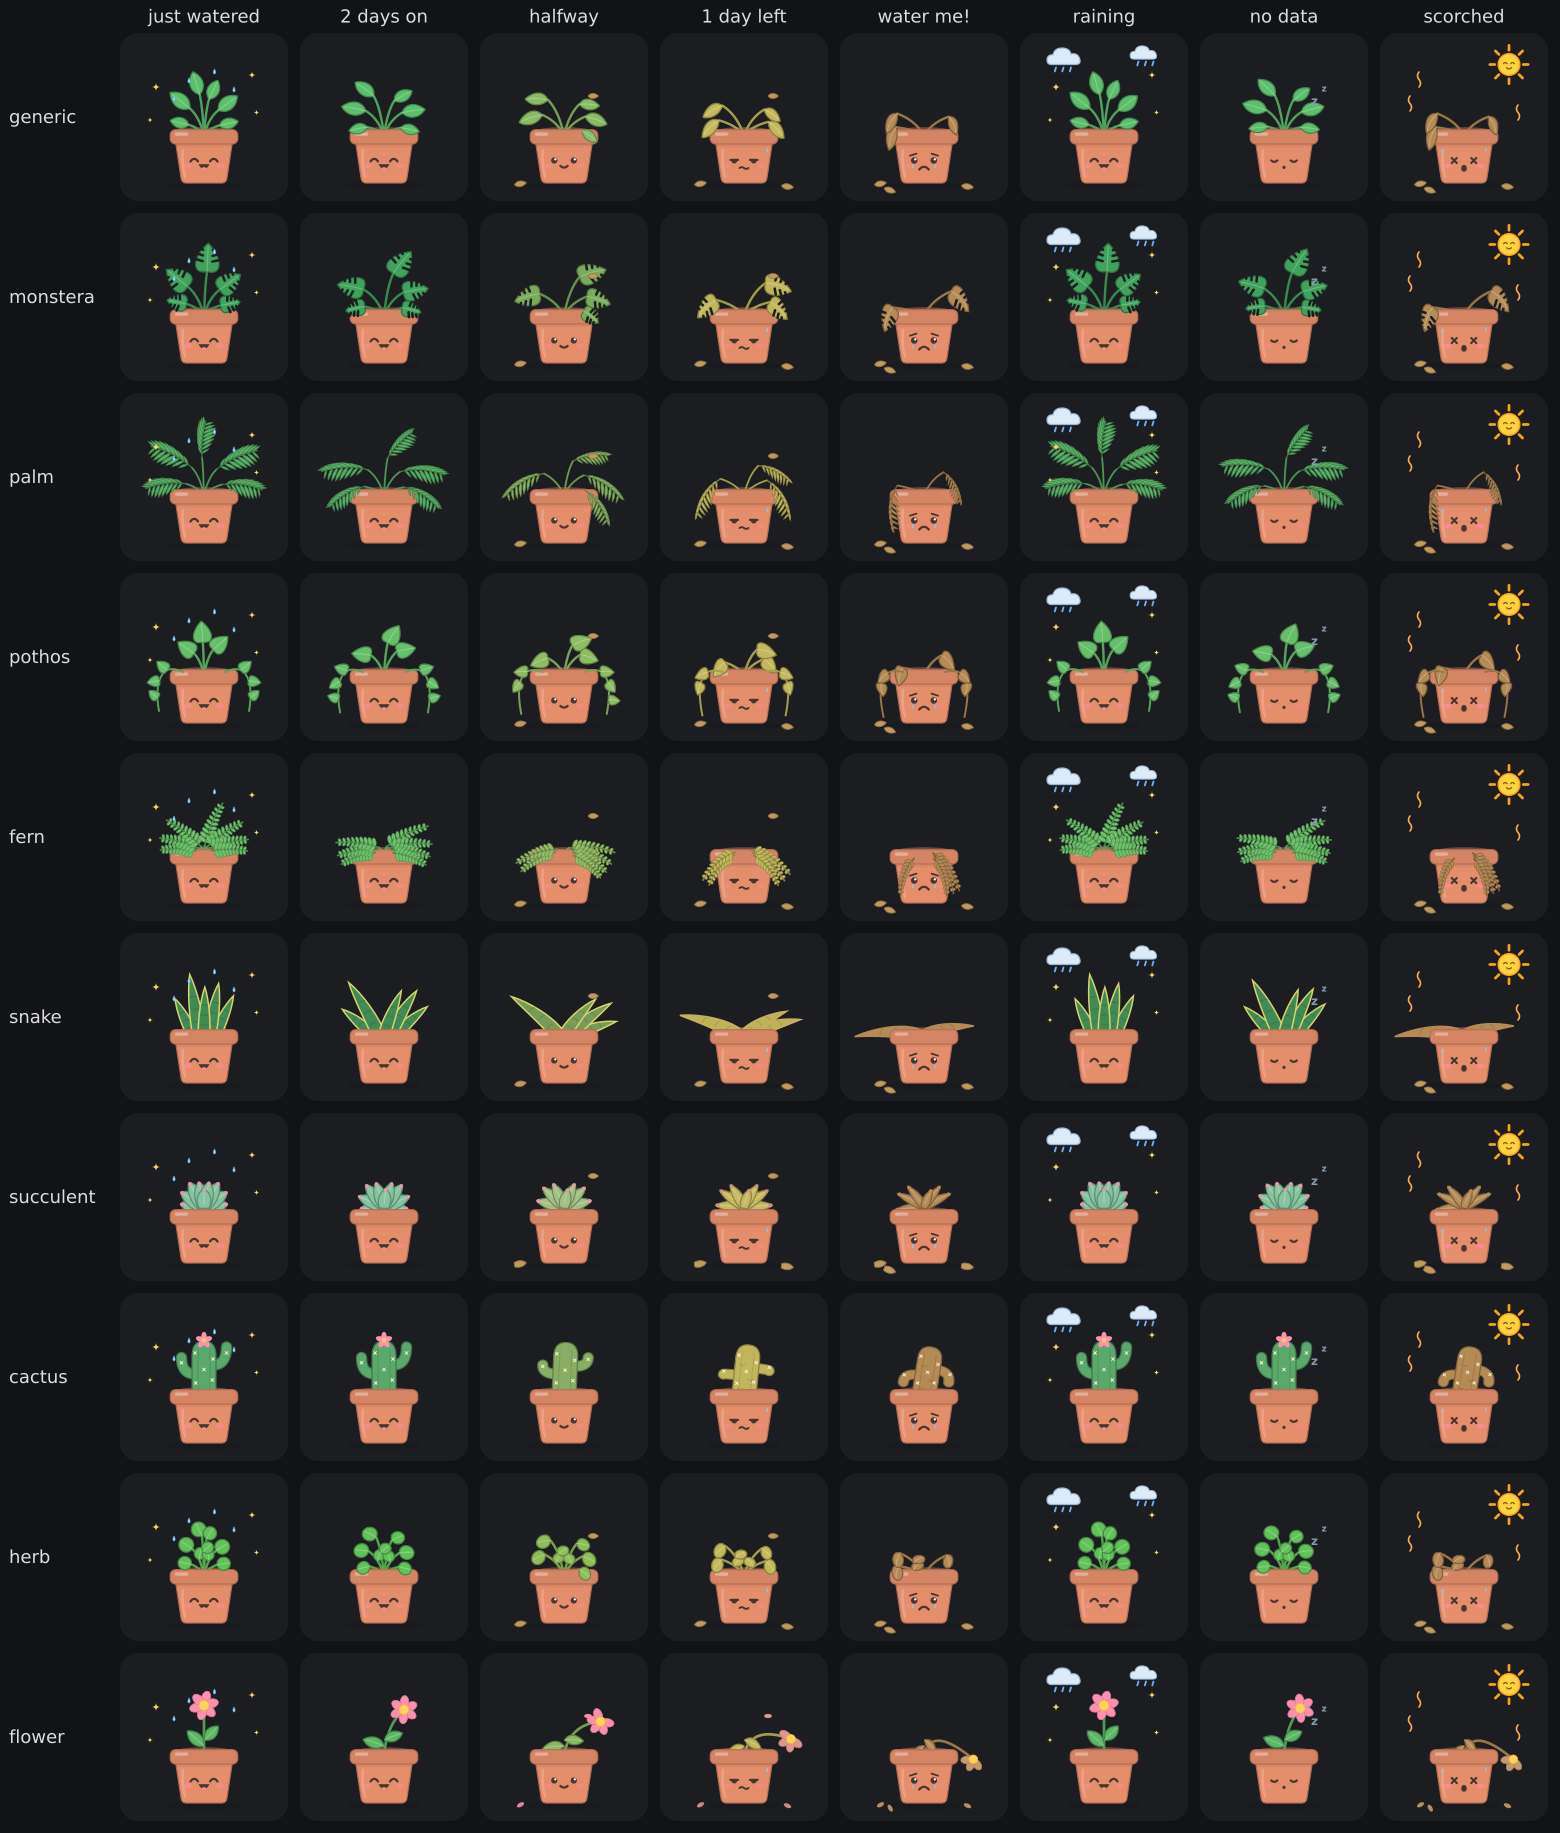
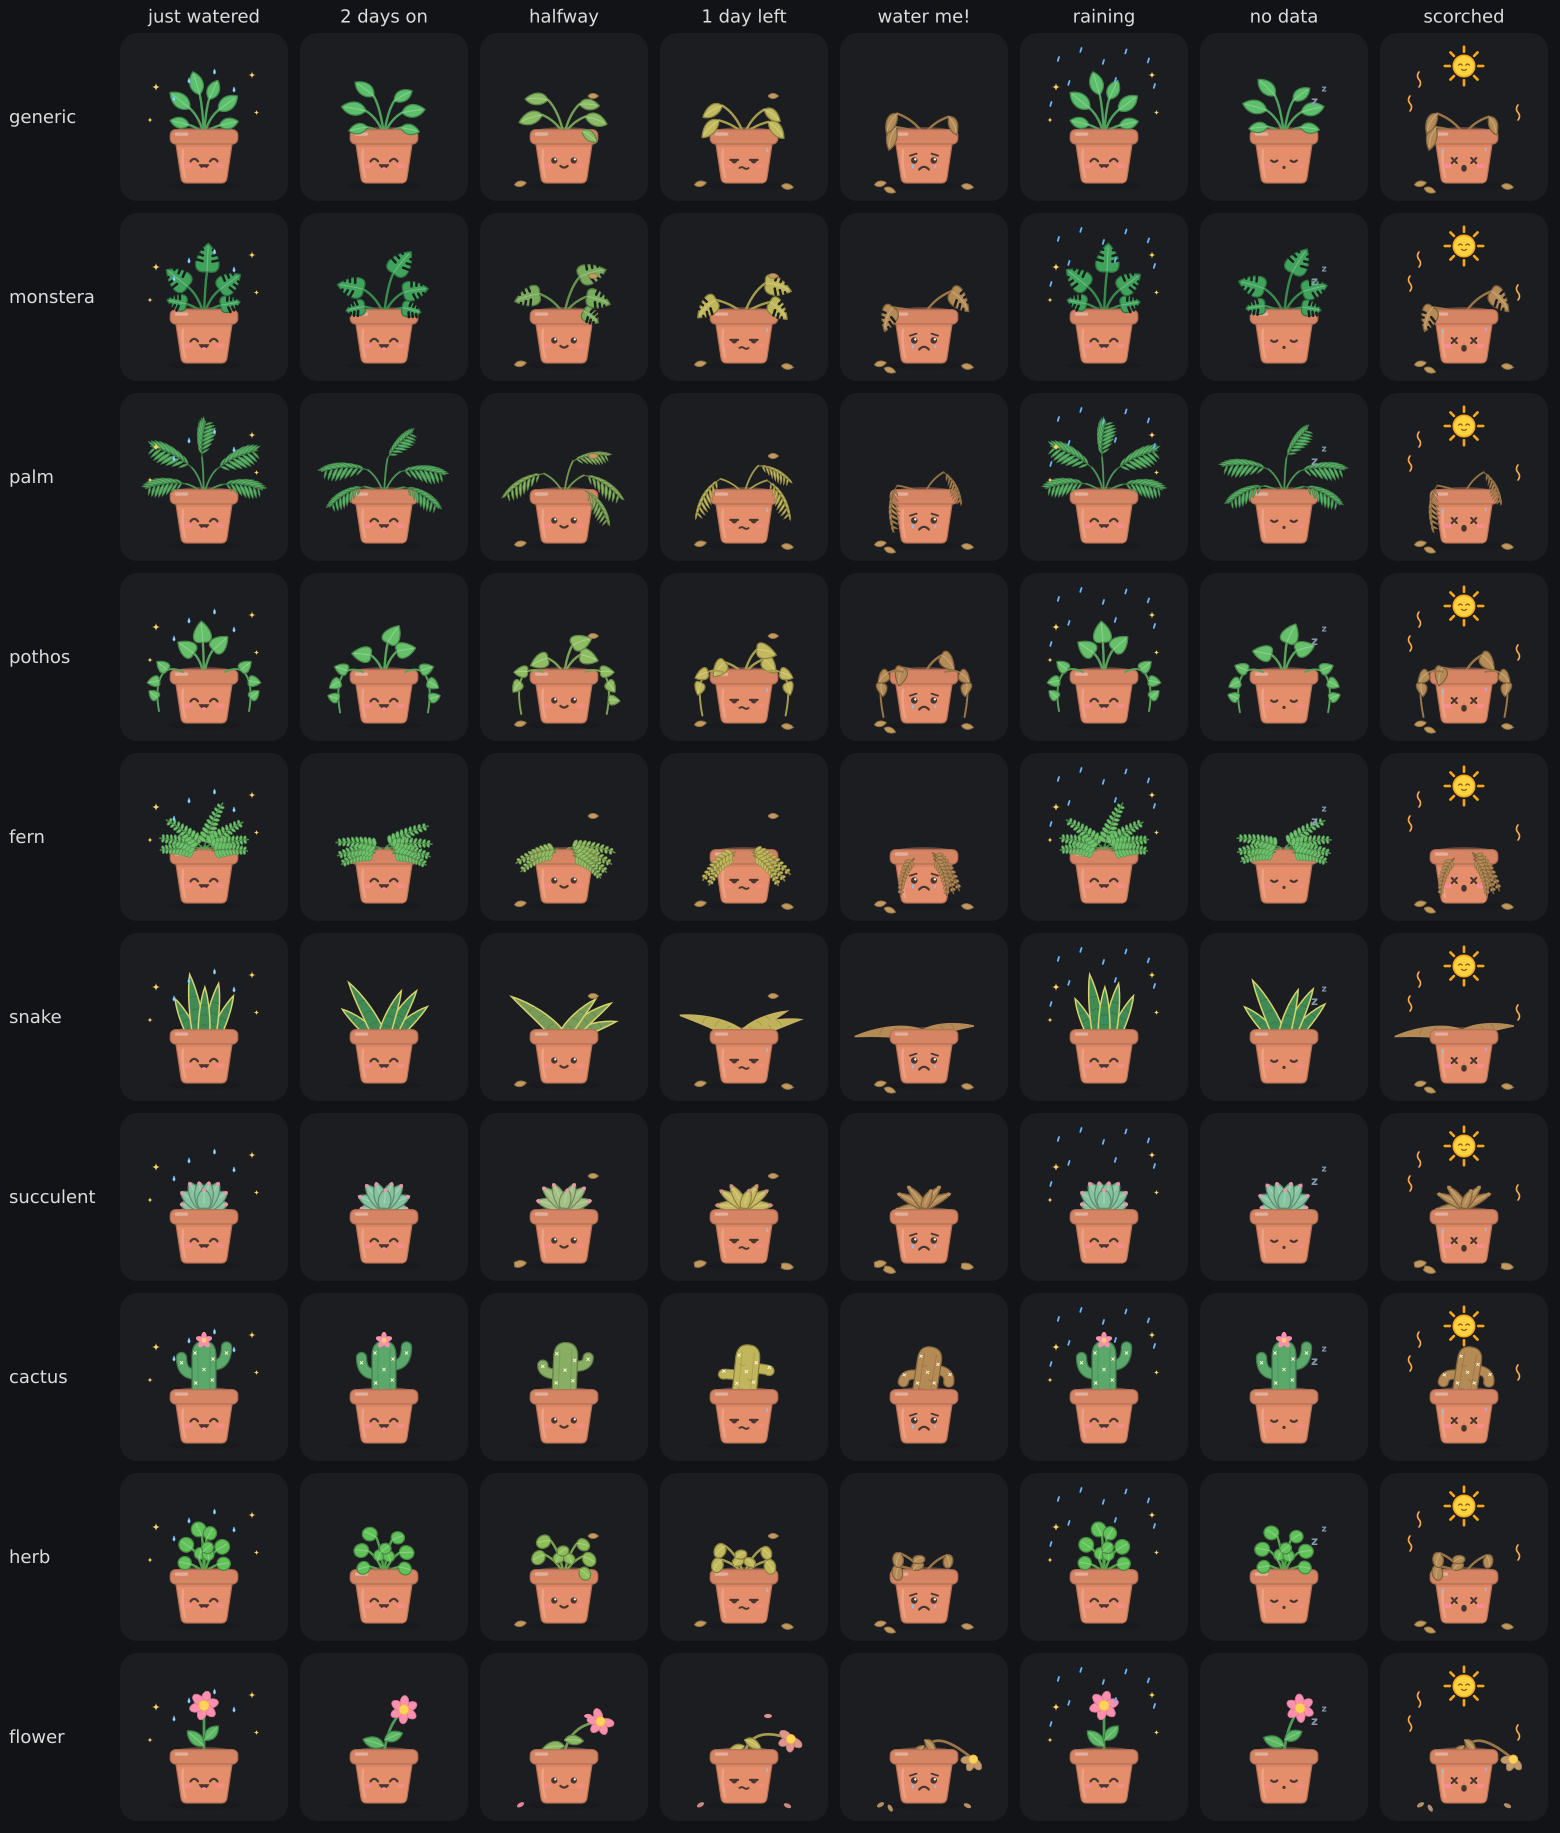
No cloud pile-up while it rains; sun behind the plant (0.1.2)
Rain drew two clouds in the scene right under the corner badge and chip,
on top of a rain badge. Now: drops only, blue chip, and the rain badge
just for rain since the last watering. The scorching sun moves to the
top centre, behind the plant, clear of the chip.

diff --git a/dist/cute-plant-card.js b/dist/cute-plant-card.js
@@ -4,7 +4,7 @@
  * MIT License
  */
 
-const VERSION = "0.1.1";
+const VERSION = "0.1.2";
 const TAG = "cute-plant-card";
 const DAY = 864e5;
 const PERENUAL = "https://perenual.com/api/v2";
@@ -356,8 +356,6 @@ function ground(kind, n, col) {
 
 const star = (x, y, s, delay) =>
   `<path class="twinkle" style="animation-delay:${delay}s" d="M${x},${y - s} Q${x},${y} ${x + s},${y} Q${x},${y} ${x},${y + s} Q${x},${y} ${x - s},${y} Q${x},${y} ${x},${y - s}Z" fill="#ffd76a"/>`;
-const cloud = (x, y, s) =>
-  `<path transform="translate(${x},${y}) scale(${s})" d="M-9,3 Q-12,3 -12,0 Q-12,-3.5 -8,-3.5 Q-7,-8 -2,-8 Q3,-8 4,-4 Q9,-5 10,0 Q10.5,3 7,3 Z" fill="#dcebf8" stroke="#9db8d3" stroke-width=".8"/>`;
 
 /** The whole scene for one state. p = {kind, d, mood, col, wet, rain} */
 function plantSVG(p) {
@@ -371,7 +369,14 @@ function plantSVG(p) {
   else [back, front] = stemPlant(LAYOUT[kind] || LAYOUT.generic, d, col, lost);
   if (kind === "pothos") front += vines(d, col, lost);
   const sway = mood === "happy" || mood === "rain" || mood === "ok" ? "sway" : mood === "tired" ? "sway slow" : "";
-  let out = `<ellipse cx="50" cy="95.6" rx="25" ry="2.8" fill="#000" opacity=".1"/>` + ground(kind, lost, col) +
+  let sun = "";
+  if (mood === "heat") {
+    let rays = "";
+    for (let i = 0; i < 8; i++) rays += `<path d="M0,-9.5 V-12.8" transform="rotate(${i * 45})" stroke="#f4a51c" stroke-width="1.8" stroke-linecap="round"/>`;
+    sun = `<g transform="translate(50,16)"><g class="spin">${rays}</g><circle r="7.2" fill="#ffd23f" stroke="#f4a51c" stroke-width="1"/>` +
+      `<path d="M-3.6,-.6 q1.2,-1.4 2.4,0 M1.2,-.6 q1.2,-1.4 2.4,0 M-1.6,2.2 q1.6,1.5 3.2,0" fill="none" stroke="#8a5a1a" stroke-width=".9" stroke-linecap="round"/></g>`;
+  }
+  let out = sun + `<ellipse cx="50" cy="95.6" rx="25" ry="2.8" fill="#000" opacity=".1"/>` + ground(kind, lost, col) +
     `<ellipse cx="50" cy="59.6" rx="19.5" ry="2.8" fill="#6b4b3e"/>` +
     `<g class="plant ${sway}">${back}</g>` + potSVG(col, mood) +
     (front ? `<g class="plant ${sway}">${front}</g>` : "");
@@ -384,17 +389,12 @@ function plantSVG(p) {
     out += `<g transform="translate(66,36)"><g class="falling">${bit}</g></g>`;
   }
   if (p.rain) {
-    out += cloud(24, 12, 1) + cloud(77, 9, 0.8);
-    [[18, 17], [23, 17], [28, 17], [73, 13], [78, 13], [83, 13]].forEach(([x, y], i) => {
+    [[20, 10], [35, 4], [50, 12], [65, 5], [80, 11], [27, 26], [58, 24], [84, 28], [15, 40]].forEach(([x, y], i) => {
       out += `<path class="drop" style="animation-delay:${r2((i * 0.37) % 0.9)}s" d="M${x},${y} l-.8,2.6" stroke="#6bb6ff" stroke-width="1.2" stroke-linecap="round"/>`;
     });
   }
   if (mood === "heat") {
-    let rays = "";
-    for (let i = 0; i < 8; i++) rays += `<path d="M0,-9.5 V-12.8" transform="rotate(${i * 45})" stroke="#f4a51c" stroke-width="1.8" stroke-linecap="round"/>`;
-    out += `<g transform="translate(80,15)"><g class="spin">${rays}</g><circle r="7.2" fill="#ffd23f" stroke="#f4a51c" stroke-width="1"/>` +
-      `<path d="M-3.6,-.6 q1.2,-1.4 2.4,0 M1.2,-.6 q1.2,-1.4 2.4,0 M-1.6,2.2 q1.6,1.5 3.2,0" fill="none" stroke="#8a5a1a" stroke-width=".9" stroke-linecap="round"/></g>` +
-      [[14, 46], [86, 52], [20, 30]].map(([x, y], i) => `<path class="shimmer" style="animation-delay:${i * 0.6}s" d="M${x},${y} q2,-2.5 0,-5 q-2,-2.5 0,-5" fill="none" stroke="#ffab4a" stroke-width="1.1" stroke-linecap="round"/>`).join("");
+    out += [[14, 46], [86, 52], [20, 30]].map(([x, y], i) => `<path class="shimmer" style="animation-delay:${i * 0.6}s" d="M${x},${y} q2,-2.5 0,-5 q-2,-2.5 0,-5" fill="none" stroke="#ffab4a" stroke-width="1.1" stroke-linecap="round"/>`).join("");
   }
   if (mood === "sleep")
     out += `<text class="zz" x="68" y="42" font-size="8" font-weight="700" fill="#8a9bb0">z</text><text class="zz z2" x="75" y="33" font-size="6" font-weight="700" fill="#8a9bb0">z</text>`;
@@ -901,7 +901,7 @@ class CutePlantCard extends HTMLElement {
     const badge = (icon, title) => `<svg viewBox="0 0 24 24"><title>${esc(title)}</title>${ICON[icon]}</svg>`;
     let badges = "";
     if (c.show_light !== false && r.light) badges += badge(["", "shade", "part", "sun"][r.light.max], `${t.light_label}: ${lightTxt}`);
-    if (r.raining || r.rained) badges += badge("rain", r.raining ? t.status.raining : t.rained);
+    if (r.rained && !r.raining) badges += badge("rain", t.rained);
     if (r.factor < 1) badges += badge("hot", `${t.hot} (${r.temp}°)`);
     if (r.factor > 1) badges += badge("cold", `${t.cold} (${r.temp}°)`);
     el.badges.innerHTML = badges;

diff --git a/CHANGELOG.md b/CHANGELOG.md
@@ -1,5 +1,10 @@
 # Changelog
 
+## 0.1.2
+
+- Rain no longer piles up clouds: while it rains the plant gets rain drops, the chip turns blue and there are no extra clouds under the corner badges. The rain badge now only means "it has rained since the last watering".
+- The scorching sun sits behind the plant, top centre, instead of under the chip.
+
 ## 0.1.1
 
 - Fix: the "Watered it?" box stayed on screen after answering (its `display:flex` beat the `hidden` attribute).
